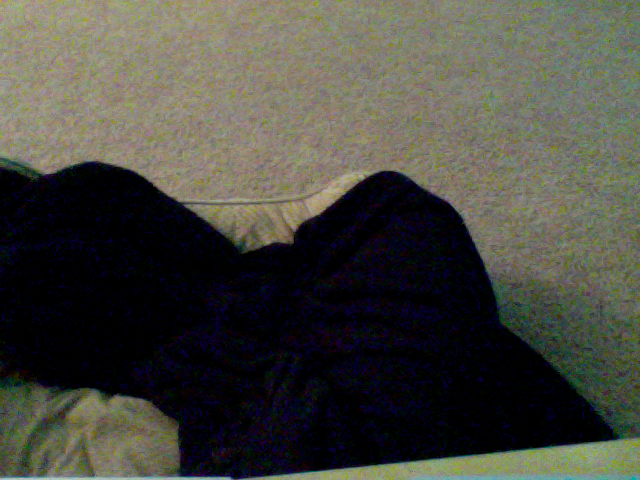
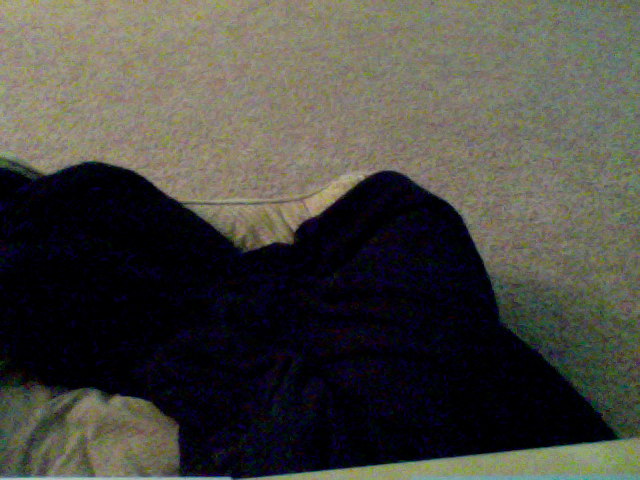
update at Month05Day07Time18:53

diff --git a/index.html b/index.html
@@ -40,7 +40,7 @@
       <div class="row">
         <div class="col-md-4">
 	<p>This picture was updated at Month05Day07Time18:53</p>
-		<img src="7_pic.png" />
+		<img src="6_pic.png" />
         </div>
       </div>
 
